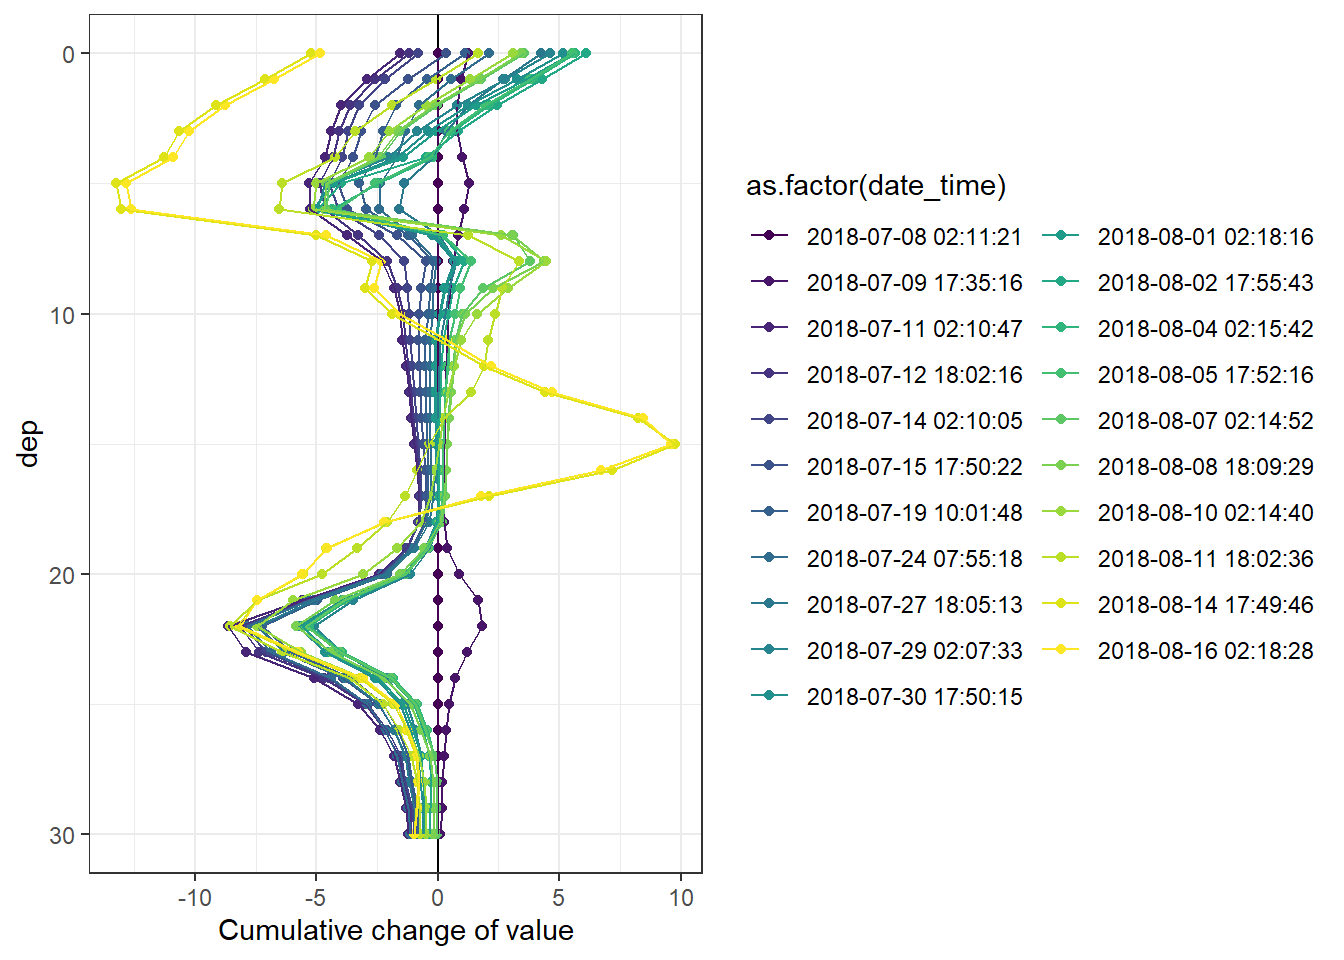
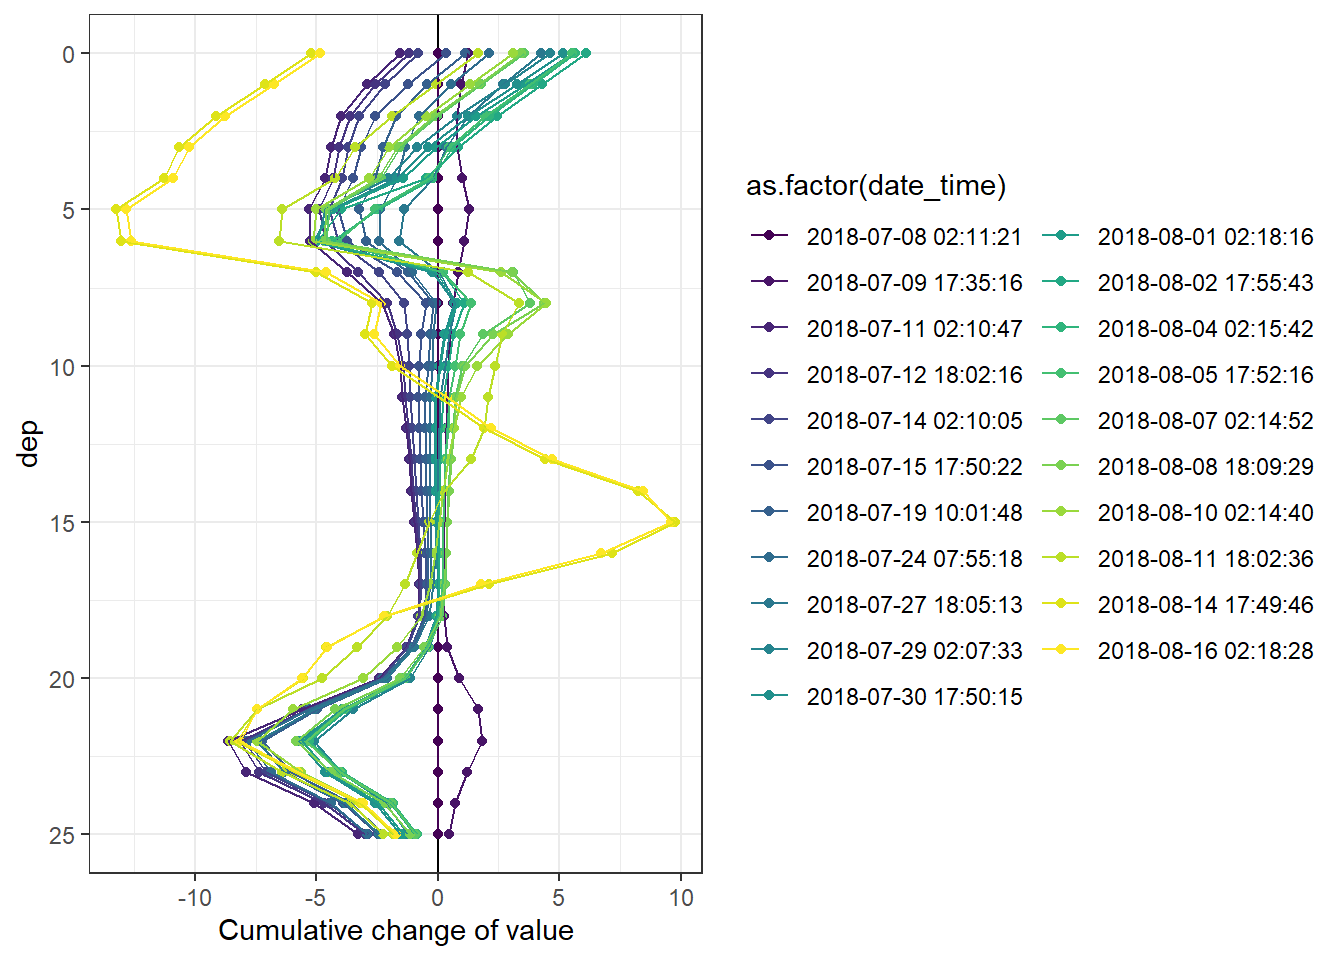
Build site.

diff --git a/docs/Finnmaid+GETM.html b/docs/Finnmaid+GETM.html
@@ -554,10 +554,10 @@ This reproducible <a href="http://rmarkdown.rstudio.com">R Markdown</a> analysis
 <div class="panel panel-default">
 <div class="panel-heading">
 <p class="panel-title">
-<a data-toggle="collapse" data-parent="#workflowr-checks" href="#strongRepositoryversionstrongahrefhttpsgithubcomjensdanielmuellerBloomSailtreea7ac65d318166a10fec6641b39dcae68ac881ef0targetblanka7ac65da"> <span class="glyphicon glyphicon-ok text-success" aria-hidden="true"></span> <strong>Repository version:</strong> <a href="https://github.com/jens-daniel-mueller/BloomSail/tree/a7ac65d318166a10fec6641b39dcae68ac881ef0" target="_blank">a7ac65d</a> </a>
+<a data-toggle="collapse" data-parent="#workflowr-checks" href="#strongRepositoryversionstrongahrefhttpsgithubcomjensdanielmuellerBloomSailtreec54fd0e8ea00e48da937879bf86de68befa93e99targetblankc54fd0ea"> <span class="glyphicon glyphicon-ok text-success" aria-hidden="true"></span> <strong>Repository version:</strong> <a href="https://github.com/jens-daniel-mueller/BloomSail/tree/c54fd0e8ea00e48da937879bf86de68befa93e99" target="_blank">c54fd0e</a> </a>
 </p>
 </div>
[2 lines of base64/hex data omitted]
 <div class="panel-body">
 <p>
 Great! You are using Git for version control. Tracking code development and connecting the code version to the results is critical for reproducibility. The version displayed above was the version of the Git repository at the time these results were generated. <br><br> Note that you need to be careful to ensure that all relevant files for the analysis have been committed to Git prior to generating the results (you can use <code>wflow_publish</code> or <code>wflow_git_commit</code>). workflowr only checks the R Markdown file, but you know if there are other scripts or data files that it depends on. Below is the status of the Git repository when the results were generated:
@@ -611,7 +611,7 @@ high_lat &lt;- 57.5
 
 #depth range to subset GETM 3d files
 d1_shallow &lt;- 0
-d1_deep &lt;- 30
+d1_deep &lt;- 25
 
 # date limits
 start_date &lt;- &quot;2018-06-20&quot;
@@ -634,6 +634,7 @@ fixed_values &lt;-
 <h2><span class="header-section-number">2.1</span> STD Profiles</h2>
 <p>Mean daily salinity and temperature profiles were extracted from 3d GETM data (vertically resolved transects).</p>
 <pre class="r"><code>nc &lt;- nc_open(here::here(&quot;data/GETM&quot;, &quot;Finnmaid.E.3d.2018.nc&quot;))
+#print(nc$var)
 
 lat &lt;- ncvar_get(nc, &quot;latc&quot;)
 
@@ -645,7 +646,7 @@ rm(time_units)
 
 d &lt;- ncvar_get(nc, &quot;zax&quot;) # read depths vector
 
-for (var_3d in c(&quot;salt&quot;, &quot;temp&quot;)) {
+for (var_3d in c(&quot;salt&quot;, &quot;temp&quot;, &quot;SurfaceAge&quot;)) {
   
 array &lt;- ncvar_get(nc, var_3d) # store the data in a 3-dimensional array
 #dim(array) # should be 3d with dimensions: 544 coordinates, 51 depths, and number of days of month
@@ -701,7 +702,7 @@ gt_3d %&gt;%
   vroom_write((here::here(&quot;data/_summarized_data_files&quot;, file = &quot;gt_3d_long.csv&quot;)))
 
 
-rm(gt_3d, gt_3d, d1_deep, d1_shallow, i, lat, d, t, var_3d)</code></pre>
+rm(gt_3d, d1_deep, d1_shallow, i, lat, d, t, var_3d)</code></pre>
 <p>Seawater density was calculated according to TEOS-10.</p>
 <pre class="r"><code>gt_3d_long &lt;- 
   read_tsv((here::here(&quot;data/_summarized_data_files&quot;, file = &quot;gt_3d_long.csv&quot;)))
@@ -710,7 +711,7 @@ gt_3d &lt;- gt_3d_long %&gt;%
   pivot_wider(values_from = value, names_from = var) %&gt;% 
   mutate(rho = swSigma(salinity = salt, temperature = temp, pressure = dep/10))</code></pre>
 <pre class="r"><code>gt_3d_long &lt;- gt_3d %&gt;% 
-  pivot_longer(3:5, values_to = &quot;value&quot;, names_to = &quot;var&quot;)
+  pivot_longer(c(salt, SurfaceAge, temp, rho), values_to = &quot;value&quot;, names_to = &quot;var&quot;)
 
 lab_dates &lt;- pretty(gt_3d_long$date_time)
 
@@ -810,8 +811,7 @@ p_sal &lt;- gt_3d %&gt;%
   theme(axis.title.x = element_blank(),
         axis.text.x = element_blank())+
   geom_line(data= gt_2d_daily,
-            aes(x = date_time, y = mld_rho), color = &quot;white&quot;)+
-  scale_color_discrete(name = &quot;Legend&quot;, labels = c(&quot;MLD Rho&quot;))
+            aes(x = date_time, y = mld_rho), color = &quot;white&quot;)
 
 
 p_tem &lt;- gt_3d %&gt;% 
@@ -826,8 +826,7 @@ p_tem &lt;- gt_3d %&gt;%
   theme(axis.title.x = element_blank(),
         axis.text.x = element_blank())+
   geom_line(data= gt_2d_daily,
-            aes(x = date_time, y = mld_rho), color = &quot;white&quot;)+
-  scale_color_discrete(name = &quot;Legend&quot;, labels = c(&quot;MLD Rho&quot;))
+            aes(x = date_time, y = mld_rho), color = &quot;white&quot;)
 
 p_rho &lt;- gt_3d %&gt;% 
   ggplot()+
@@ -840,11 +839,23 @@ p_rho &lt;- gt_3d %&gt;%
   labs(y=&quot;Depth [m]&quot;, x=&quot;&quot;)+
   theme(axis.title.x = element_blank())+
   geom_line(data= gt_2d_daily,
-            aes(x = date_time, y = mld_rho), color = &quot;white&quot;)+
-  scale_color_discrete(name = &quot;Legend&quot;, labels = c(&quot;MLD Rho&quot;))
+            aes(x = date_time, y = mld_rho), color = &quot;white&quot;)
 
-p_sal / p_tem / p_rho</code></pre>
-<p><img src="figure/Finnmaid+GETM.Rmd/plot_hovmoeller_gt_salt_temp_rho-1.png" width="672" style="display: block; margin: auto;" /></p>
+p_age &lt;- gt_3d %&gt;% 
+  ggplot()+
+  geom_raster(aes(date_time, dep, fill=SurfaceAge))+
+  geom_vline(data=fixed_values, aes(xintercept = start))+
+  geom_vline(data=fixed_values, aes(xintercept = end))+
+  scale_fill_viridis_c(name=&quot;SurfaceAge (d)&quot;, direction = -1, trans = &quot;sqrt&quot;)+
+  scale_y_reverse()+
+  coord_cartesian(expand = 0)+
+  labs(y=&quot;Depth [m]&quot;, x=&quot;&quot;)+
+  theme(axis.title.x = element_blank())+
+  geom_line(data= gt_2d_daily,
+            aes(x = date_time, y = mld_rho), color = &quot;white&quot;)
+
+p_sal / p_tem / p_rho / p_age</code></pre>
+<p><img src="figure/Finnmaid+GETM.Rmd/plot_hovmoeller_gt_salt_temp_rho_age-1.png" width="672" style="display: block; margin: auto;" /></p>
 <pre class="r"><code>rm(p_sal, p_tem, p_rho)</code></pre>
 </div>
 <div id="test-calculation" class="section level3">
@@ -964,7 +975,7 @@ fm &lt;- fm %&gt;%
 # fm_ID &lt;- inner_join(fm_ID_mean, fm_ID_sd)
 # 
 # rm(fm_ID_mean, fm_ID_sd)</code></pre>
-<p>Read BloomSail data to fill observational gap of Finnmaid date in second half of June.</p>
+<p>Read BloomSail profile data from 1-5m to fill observational gap of Finnmaid date in second half of June.</p>
 <pre class="r"><code>ts_profiles_ID_long &lt;-
   read_csv(here::here(&quot;Data/_merged_data_files&quot;, &quot;ts_profiles_ID_long_cum.csv&quot;))
 
